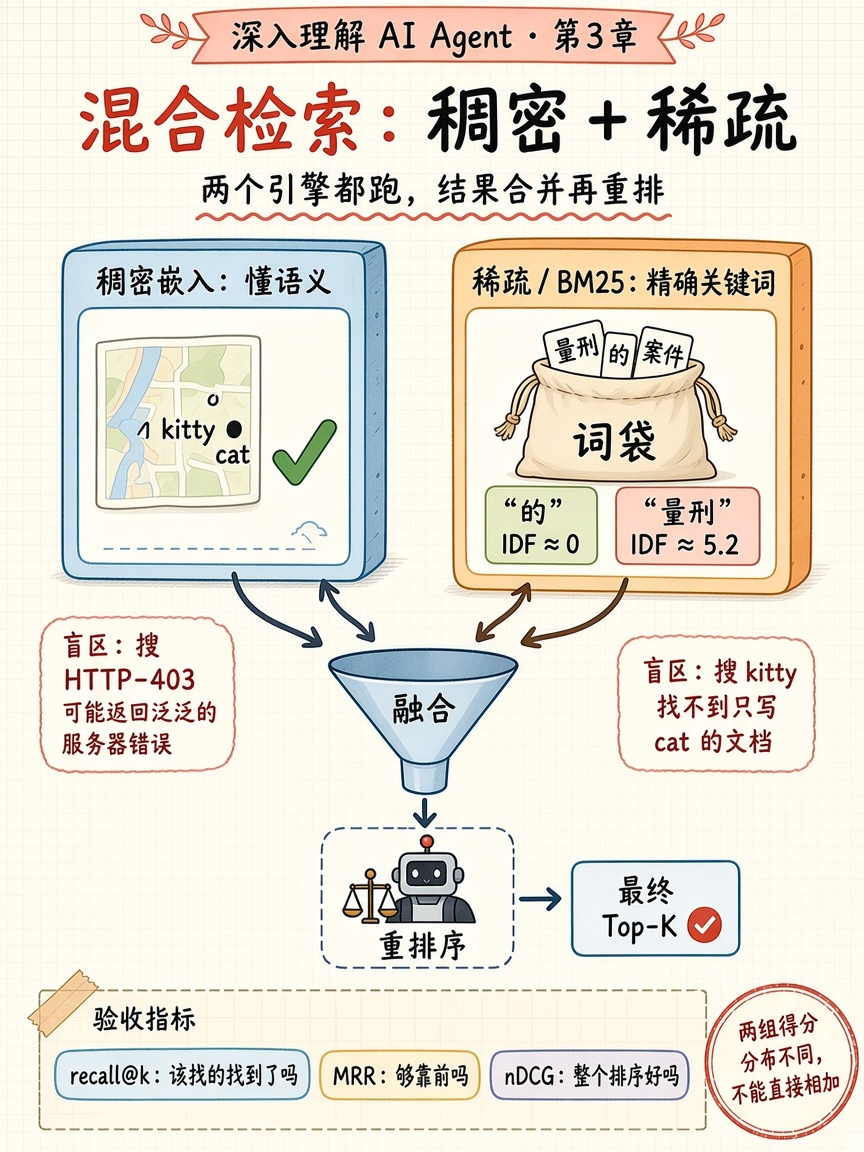
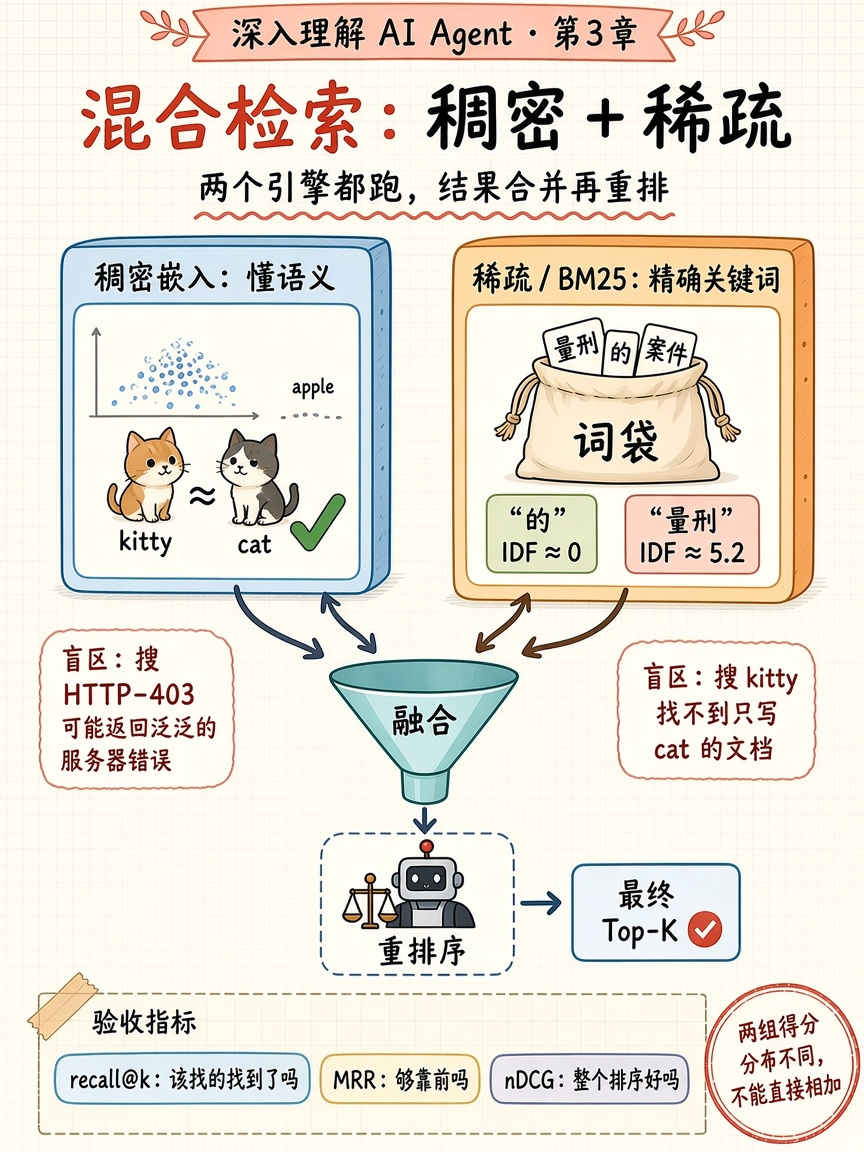
Fix six memo cards from review comments on #15
Redraw the six cards KeyFicller flagged: manager-pattern arrows now follow 1-5, peer topology is one-to-one, the GAIA ladder is easy at the bottom, async no longer says 异构, the RAPTOR tree has its root at the top, and kitty/cat are cats rather than map pins. Gallery paths are unchanged.

diff --git a/notes/progress.md b/notes/progress.md
@@ -540,8 +540,8 @@
 | 2026-11-10 | book/deep-ai-agent/03-memory-and-knowledge/05-memory-types | notes/cards/book-deep-ai-agent/03-memory-and-knowledge/05-memory-types.png | done score=91 attempt=1 |
 | 2026-11-10 | book/deep-ai-agent/03-memory-and-knowledge/06-memory-consolidation | notes/cards/book-deep-ai-agent/03-memory-and-knowledge/06-memory-consolidation.png | done score=89 attempt=1 |
 | 2026-11-10 | book/deep-ai-agent/03-memory-and-knowledge/07-rag-pipeline | notes/cards/book-deep-ai-agent/03-memory-and-knowledge/07-rag-pipeline.png | done score=90 attempt=1 |
-| 2026-11-10 | book/deep-ai-agent/03-memory-and-knowledge/08-hybrid-retrieval | notes/cards/book-deep-ai-agent/03-memory-and-knowledge/08-hybrid-retrieval.png | done score=89 attempt=2 |
-| 2026-11-10 | book/deep-ai-agent/03-memory-and-knowledge/09-structured-index | notes/cards/book-deep-ai-agent/03-memory-and-knowledge/09-structured-index.png | exhaust score=84 attempt=2 |
+| 2026-11-10 | book/deep-ai-agent/03-memory-and-knowledge/08-hybrid-retrieval | notes/cards/book-deep-ai-agent/03-memory-and-knowledge/08-hybrid-retrieval.png | done score=94 attempt=3 |
+| 2026-11-10 | book/deep-ai-agent/03-memory-and-knowledge/09-structured-index | notes/cards/book-deep-ai-agent/03-memory-and-knowledge/09-structured-index.png | done score=90 attempt=4 |
 | 2026-11-10 | book/deep-ai-agent/03-memory-and-knowledge/10-knowledge-as-pr | notes/cards/book-deep-ai-agent/03-memory-and-knowledge/10-knowledge-as-pr.png | done score=91 attempt=1 |
 | 2026-11-10 | book/deep-ai-agent/03-memory-and-knowledge/11-agentic-rag | notes/cards/book-deep-ai-agent/03-memory-and-knowledge/11-agentic-rag.png | done score=89 attempt=1 |
 | 2026-11-10 | book/deep-ai-agent/04-tools/01-five-tool-types | notes/cards/book-deep-ai-agent/04-tools/01-five-tool-types.png | done score=89 attempt=2 |
@@ -568,7 +568,7 @@
 | 2026-11-10 | book/deep-ai-agent/06-interaction/01-two-axes | notes/cards/book-deep-ai-agent/06-interaction/01-two-axes.png | done score=87 attempt=1 |
 | 2026-11-10 | book/deep-ai-agent/06-interaction/02-event-driven | notes/cards/book-deep-ai-agent/06-interaction/02-event-driven.png | exhaust score=83 attempt=1 |
 | 2026-11-10 | book/deep-ai-agent/06-interaction/03-event-strategies | notes/cards/book-deep-ai-agent/06-interaction/03-event-strategies.png | done score=89 attempt=2 |
-| 2026-11-10 | book/deep-ai-agent/06-interaction/04-async-tool-semantics | notes/cards/book-deep-ai-agent/06-interaction/04-async-tool-semantics.png | exhaust score=80 attempt=2 |
+| 2026-11-10 | book/deep-ai-agent/06-interaction/04-async-tool-semantics | notes/cards/book-deep-ai-agent/06-interaction/04-async-tool-semantics.png | exhaust score=79 attempt=4 |
 | 2026-11-10 | book/deep-ai-agent/06-interaction/05-voice-paradigms | notes/cards/book-deep-ai-agent/06-interaction/05-voice-paradigms.png | done score=87 attempt=1 |
 | 2026-11-10 | book/deep-ai-agent/06-interaction/06-fast-slow-thinking | notes/cards/book-deep-ai-agent/06-interaction/06-fast-slow-thinking.png | done score=89 attempt=1 |
 | 2026-11-10 | book/deep-ai-agent/06-interaction/07-computer-use-loop | notes/cards/book-deep-ai-agent/06-interaction/07-computer-use-loop.png | exhaust score=84 attempt=2 |
@@ -579,7 +579,7 @@
 | 2026-11-10 | book/deep-ai-agent/07-evaluation/02-pass-at-k | notes/cards/book-deep-ai-agent/07-evaluation/02-pass-at-k.png | done score=85 attempt=2 |
 | 2026-11-10 | book/deep-ai-agent/07-evaluation/03-eval-env-five | notes/cards/book-deep-ai-agent/07-evaluation/03-eval-env-five.png | done score=91 attempt=1 |
 | 2026-11-10 | book/deep-ai-agent/07-evaluation/04-verifier | notes/cards/book-deep-ai-agent/07-evaluation/04-verifier.png | done score=87 attempt=1 |
-| 2026-11-10 | book/deep-ai-agent/07-evaluation/05-difficulty-leakage | notes/cards/book-deep-ai-agent/07-evaluation/05-difficulty-leakage.png | done score=89 attempt=1 |
+| 2026-11-10 | book/deep-ai-agent/07-evaluation/05-difficulty-leakage | notes/cards/book-deep-ai-agent/07-evaluation/05-difficulty-leakage.png | done score=96 attempt=3 |
 | 2026-11-10 | book/deep-ai-agent/07-evaluation/06-llm-judge | notes/cards/book-deep-ai-agent/07-evaluation/06-llm-judge.png | done score=90 attempt=1 |
 | 2026-11-10 | book/deep-ai-agent/07-evaluation/07-failure-attribution | notes/cards/book-deep-ai-agent/07-evaluation/07-failure-attribution.png | done score=90 attempt=2 |
 | 2026-11-10 | book/deep-ai-agent/07-evaluation/08-regression-tasks | notes/cards/book-deep-ai-agent/07-evaluation/08-regression-tasks.png | done score=91 attempt=1 |
@@ -605,11 +605,11 @@
 | 2026-11-10 | book/deep-ai-agent/09-continual-evolution/07-dual-loop | notes/cards/book-deep-ai-agent/09-continual-evolution/07-dual-loop.png | done score=87 attempt=1 |
 | 2026-11-10 | book/deep-ai-agent/09-continual-evolution/08-safety-boundaries | notes/cards/book-deep-ai-agent/09-continual-evolution/08-safety-boundaries.png | done score=90 attempt=2 |
 | 2026-11-10 | book/deep-ai-agent/09-continual-evolution/09-sleep-learning | notes/cards/book-deep-ai-agent/09-continual-evolution/09-sleep-learning.png | done score=91 attempt=1 |
-| 2026-11-10 | book/deep-ai-agent/10-multi-agent/01-two-dimensions | notes/cards/book-deep-ai-agent/10-multi-agent/01-two-dimensions.png | done score=91 attempt=1 |
+| 2026-11-10 | book/deep-ai-agent/10-multi-agent/01-two-dimensions | notes/cards/book-deep-ai-agent/10-multi-agent/01-two-dimensions.png | done score=96 attempt=3 |
 | 2026-11-10 | book/deep-ai-agent/10-multi-agent/02-new-information | notes/cards/book-deep-ai-agent/10-multi-agent/02-new-information.png | done score=87 attempt=1 |
 | 2026-11-10 | book/deep-ai-agent/10-multi-agent/03-communication-ipc | notes/cards/book-deep-ai-agent/10-multi-agent/03-communication-ipc.png | exhaust score=84 attempt=2 |
 | 2026-11-10 | book/deep-ai-agent/10-multi-agent/04-peer-collaboration | notes/cards/book-deep-ai-agent/10-multi-agent/04-peer-collaboration.png | done score=90 attempt=1 |
-| 2026-11-10 | book/deep-ai-agent/10-multi-agent/05-manager-pattern | notes/cards/book-deep-ai-agent/10-multi-agent/05-manager-pattern.png | done score=89 attempt=2 |
+| 2026-11-10 | book/deep-ai-agent/10-multi-agent/05-manager-pattern | notes/cards/book-deep-ai-agent/10-multi-agent/05-manager-pattern.png | done score=95 attempt=3 |
 | 2026-11-10 | book/deep-ai-agent/10-multi-agent/06-decentralized-a2a | notes/cards/book-deep-ai-agent/10-multi-agent/06-decentralized-a2a.png | done score=88 attempt=1 |
 | 2026-11-10 | book/deep-ai-agent/10-multi-agent/07-failure-modes-1 | notes/cards/book-deep-ai-agent/10-multi-agent/07-failure-modes-1.png | done score=89 attempt=1 |
 | 2026-11-10 | book/deep-ai-agent/10-multi-agent/08-failure-modes-2 | notes/cards/book-deep-ai-agent/10-multi-agent/08-failure-modes-2.png | done score=90 attempt=1 |
